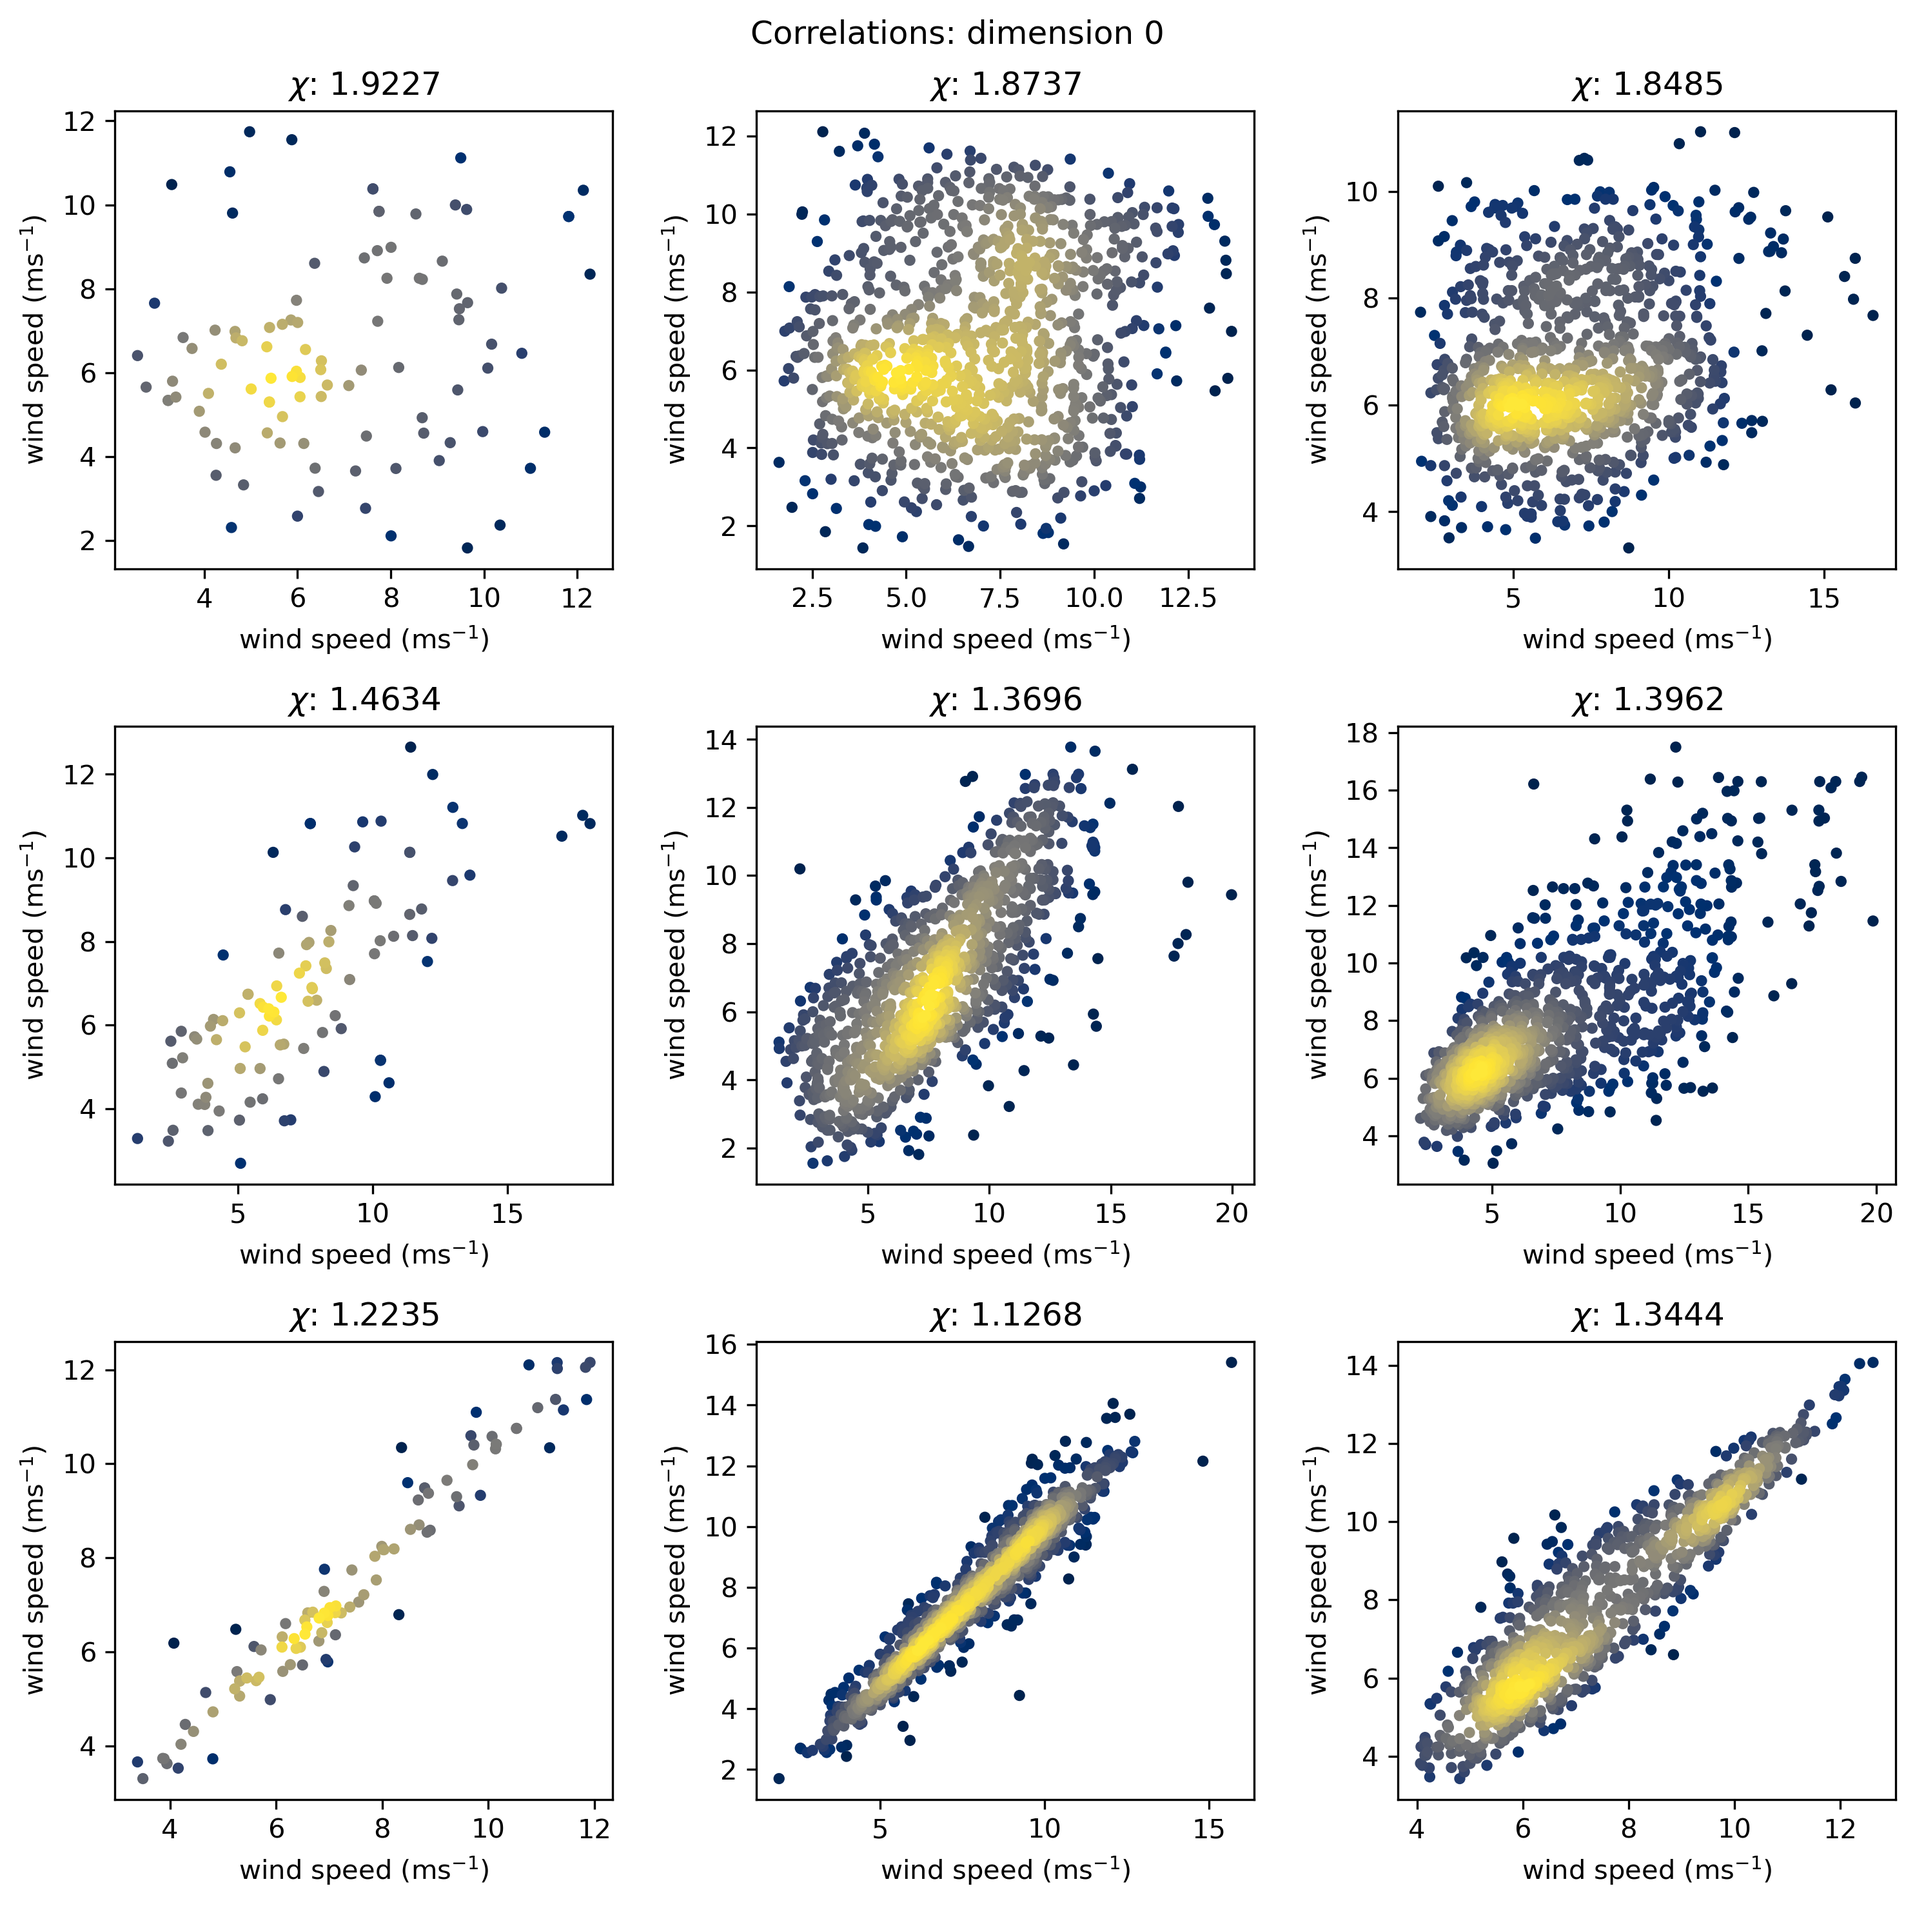
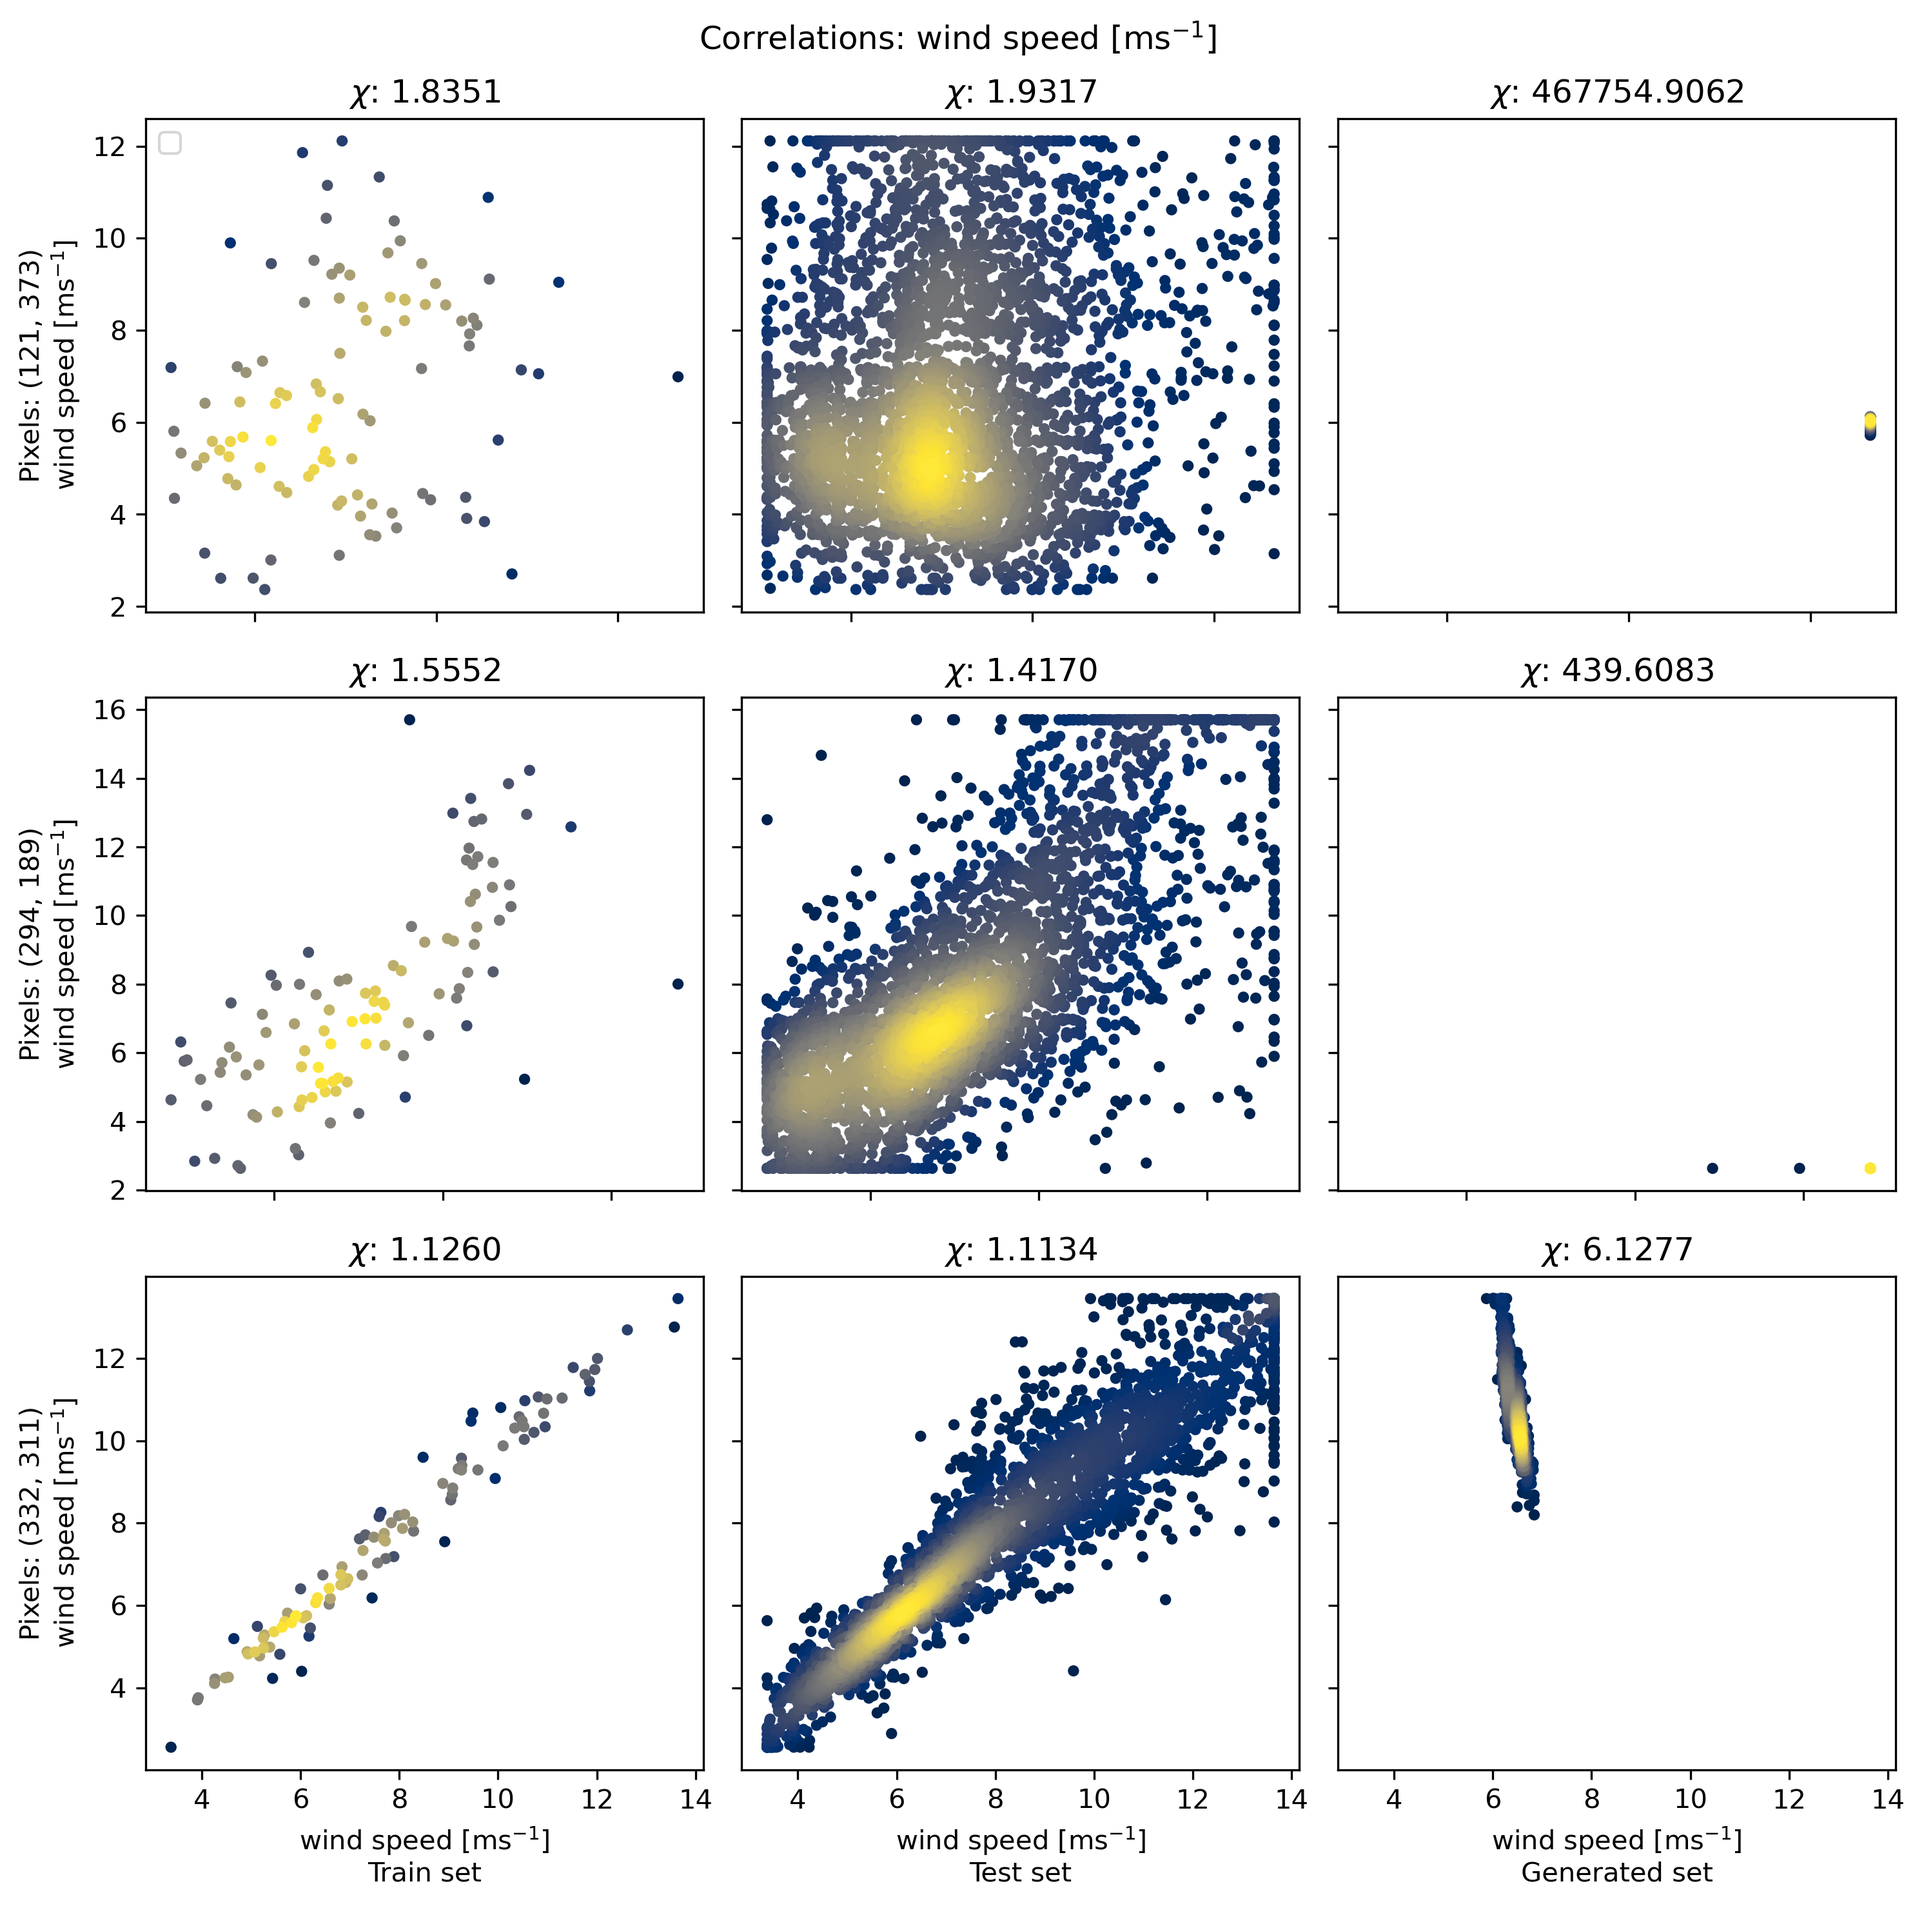
new stuff

diff --git a/evtGAN/tf_utils.py b/evtGAN/tf_utils.py
@@ -87,13 +87,13 @@ def semiparametric_marginal_cdf(x, fit_tail=False, thresh=None):
     if (x.max() - x.min()) == 0.:
         return np.array([0.] * len(x)), 0, 0, 0
     
-    f = ecdf(x)  # ecdf(x).cdf.evaluate(x)
+    f = ecdf(x)
     
     if fit_tail:
         assert thresh is not None, "Threshold must be supplied if fitting tail."
         x_tail = x[x > thresh]
         f_tail = f[x > thresh]
-        x_tail = x_tail.astype(np.float64)  # otherwise f_thresh gets rounded too low
+        x_tail = x_tail.astype(np.float64)  # otherwise f_thresh gets rounded down below f_thresh
         shape, loc, scale = genpareto.fit(x_tail, floc=thresh, method="MLE")
         f_thresh = np.interp(thresh, sorted(x), sorted(f)) #ecdf(x).cdf.evaluate(thresh)
         f_tail = 1 - (1 - f_thresh) * (np.maximum(0, (1 - shape * (x_tail - thresh) / scale)) ** (1 / shape))  # second set of parenthesis important
@@ -139,9 +139,10 @@ def inv_probability_integral_transform(marginals, x, y, params=None, thresh=None
     """Transform uniform marginals to original distributions, by inverse-interpolating ecdf."""
     assert marginals.ndim == 4, "Function takes rank 4 arrays"
     n, h, w, c = marginals.shape
-    assert x.shape[1:] == (h, w, c), "Marginals and x have different dimensions."
-    assert y.shape[1:] == (h, w, c), "Marginals and y have different dimensions."
-    assert x.shape[0] == y.shape[0], "x and y have different dimensions."
+
+    assert x.shape[1:] == (h, w, c), f"Marginals and x have different dimensions: {x.shape[1:]} != {h, w, c}."
+    assert y.shape[1:] == (h, w, c), f"Marginals and y have different dimensions: {y.shape[1:]} != {h, w, c}."
+    assert x.shape[0] == tf.shape(y)[0], f"x and y have different dimensions: {x.shape[0]} != {y.shape[0]}."
     
     marginals = marginals.reshape(n, h * w, c)
     x = x.reshape(len(x), h * w, c)
@@ -204,14 +205,6 @@ def upper_ppf(marginals, u_x, thresh, params):
     return x
 
 
-# def gev_ppf(q, params):
-#     """To replace nans with zeros."""
-#     if sum(params) > 0:
-#         return genpareto.ppf(q, *params)
-#     else:
-#         return 0.
-
-
 def get_ecs(marginals, sample_inds):
     data = tf.cast(marginals, dtype=tf.float32)
     n, h, w = tf.shape(data)[:3]
@@ -226,13 +219,11 @@ def get_ecs(marginals, sample_inds):
 
 
 def tf_exp(uniform):
-    # if (uniform == 1).any(): uniform *= 0.9999  # need a TensorFlow analogue
     exp_distributed = -tf.math.log(1 - uniform)
     return exp_distributed
 
 
 def tf_inv_frechet(uniform):
-    # if (uniform == 1).any(): uniform *= 0.9999  # need a TensorFlow analogue
     exp_distributed = -tf.math.log(uniform)
     return exp_distributed
 
@@ -271,6 +262,22 @@ def gaussian_blur(img, kernel_size=11, sigma=5):
                                   padding='SAME', data_format='NHWC')
 
 
+def interpolate_thresholds(thresholds, x, y):
+    n, h, w, c = x.shape
+    
+    thresholds = thresholds.reshape(h * w, c)
+    x = x.reshape(n, h * w, c)
+    y = y.reshape(n, h * w, c)
+    f_thresholds = np.empty([h * w, c])
+    
+    for i in range(c):
+        for j in range(h * w):
+            f_thresholds[j, i] = np.interp(thresholds[j, i], x[:, j, i], y[:, j, i])
+                           
+    f_thresholds = f_thresholds.reshape(h, w, c)
+    return f_thresholds
+
+
 ########################################################################################################
 def load_data(datadir, imsize=(18, 22), conditions='all', dim=None):
     """Load wind image data to correct size."""
@@ -289,28 +296,21 @@ def load_data(datadir, imsize=(18, 22), conditions='all', dim=None):
     return data.numpy(), cyclone_flag
 
 
-def load_marginals_and_quantiles(datadir, train_size=200, datas=['wind_data', 'wave_data', 'precip_data'], paddings=tf.constant([[0,0], [1,1], [1,1], [0,0]])):
+def load_training_data(datadir, train_size=200, datas=['wind_data', 'wave_data', 'precip_data'], paddings=tf.constant([[0,0], [1,1], [1,1], [0,0]])):
     marginals = []
-    quantiles = []
     images = []
     params = []
     thresholds = []
-    threshold_ecdfs = []
     for data in datas:
         marginals.append(np.load(os.path.join(datadir, data, 'train', 'marginals.npy'))[..., 0])
-        quantiles.append(np.load(os.path.join(datadir, data, 'train', 'quantiles.npy')))
         params.append(np.load(os.path.join(datadir, data, 'train', 'params.npy')))
         images.append(np.load(os.path.join(datadir, data, 'train', 'images.npy'))[..., 0])
         thresholds.append(np.load(os.path.join(datadir, data, 'train', 'thresholds.npy')))
-        threshold_ecdfs.append(np.load(os.path.join(datadir, data, 'train', 'threshold_ecdfs.npy')))
-
 
     marginals = np.stack(marginals, axis=-1)
-    quantiles = np.stack(quantiles, axis=-1)
     params = np.stack(params, axis=-1)
     images = np.stack(images, axis=-1)
     thresholds = np.stack(thresholds, axis=-1)
-    threshold_ecdfs = np.stack(threshold_ecdfs, axis=-1)
 
     # paddings
     marginals = tf.pad(marginals, paddings)
@@ -322,5 +322,25 @@ def load_marginals_and_quantiles(datadir, train_size=200, datas=['wind_data', 'w
 
     marginals_train = np.take(marginals, train_inds, axis=0)
     marginals_test = np.delete(marginals, train_inds, axis=0)
-    return marginals_train, marginals_test, quantiles, params, images, thresholds, threshold_ecdfs
+    images = np.take(images, train_inds, axis=0)
+    return marginals_train, marginals_test, params, images, thresholds
 
+
+
+def load_test_data(datadir, datas=['wind_data', 'wave_data', 'precip_data'], paddings=tf.constant([[0,0], [1,1], [1,1], [0,0]])):
+    marginals = []
+    images = []
+    params = []
+
+    for data in datas:
+        marginals.append(np.load(os.path.join(datadir, data, 'test', 'marginals.npy'))[..., 0])
+        params.append(np.load(os.path.join(datadir, data, 'train', 'params.npy')))
+        images.append(np.load(os.path.join(datadir, data, 'test', 'images.npy'))[..., 0])
+
+    marginals = np.stack(marginals, axis=-1)
+    params = np.stack(params, axis=-1)
+    images = np.stack(images, axis=-1)
+
+    # paddings
+    marginals = tf.pad(marginals, paddings)
+    return marginals, images, params

diff --git a/evtGAN/viz_utils.py b/evtGAN/viz_utils.py
@@ -83,8 +83,8 @@ def scatter_density(x, y, ax, title='', cmap='cividis'):
     return ax
 
 
-def compare_ecs_plot(train_marginals, test_marginals, fake_marginals, quantiles, params=None,
-                     thresh=None, channel=0, u_x=None, cmap='cividis'):
+def compare_ecs_plot(train_marginals, test_marginals, fake_marginals, x, y, params=None,
+                     thresh=None, channel=0, cmap='cividis', inverse_transform=True):
     if channel == 0:
         corrs = {'low': (121, 373), 'medium': (294, 189), 'high': (332, 311)}
     elif channel == 1:
@@ -93,13 +93,20 @@ def compare_ecs_plot(train_marginals, test_marginals, fake_marginals, quantiles,
         corrs = {'low': (121, 373), 'medium': (294, 189), 'high': (332, 311)}
 
     fig, axs = plt.subplots(3, 3, figsize=(10, 10), layout='tight')
-    train_quantiles = transform_to_quantiles(train_marginals, quantiles, params, thresh)
-    test_quantiles = transform_to_quantiles(test_marginals, quantiles, params, thresh)
-    fake_quantiles = transform_to_quantiles(fake_marginals, quantiles, params, thresh)
 
-    if u_x is not None:
-        h, w, c = u_x.shape
-        u_x = u_x.reshape(h * w, c)
+    if inverse_transform:
+        train_quantiles = inv_probability_integral_transform(train_marginals, x, y, params, thresh)
+        test_quantiles = inv_probability_integral_transform(test_marginals, x, y, params, thresh)
+        fake_quantiles = inv_probability_integral_transform(fake_marginals, x, y, params, thresh)
+    else:
+        train_quantiles = train_marginals
+        test_quantiles = test_marginals
+        fake_quantiles = fake_marginals
+        thresh = interpolate_thresholds(thresh, x, y)
+
+    if thresh is not None:
+        h, w, c = thresh.shape
+        thresh = thresh.reshape(h * w, c)
 
     for i, sample_pixels in enumerate([*corrs.values()]):
         ax = axs[i, :]
@@ -113,26 +120,32 @@ def compare_ecs_plot(train_marginals, test_marginals, fake_marginals, quantiles,
         ax[1].set_title(f'$\chi$: {ec:.4f}')
         ec = get_ecs(fake_marginals[..., channel], sample_pixels)[0]
         ax[2].set_title(f'$\chi$: {ec:.4f}')
+        ax[0].set_ylabel(f'Pixels: {sample_pixels[0], sample_pixels[1]}\n{channel_labels[channel]}')
 
-        if u_x is not None:
-            u = (u_x[sample_pixels[0], channel], u_x[sample_pixels[1], channel])
+        if thresh is not None:
+            u = (thresh[sample_pixels[0], channel], thresh[sample_pixels[1], channel])
 
             for a in ax:
-                a.axhline(u[0], linestyle='dashed', color='k')
+                a.axhline(u[0], linestyle='dashed', color='k', label='Threshold')
                 a.axvline(u[1], linestyle='dashed', color='k')
 
         xlim = ax[0].get_xlim()
         ylim = ax[0].get_ylim()
+
         for a in ax:
             a.set_xlim(xlim)
             a.set_ylim(ylim)
 
+    axs[2, 0].set_xlabel(f'{channel_labels[channel]}\nTrain set')
+    axs[2, 1].set_xlabel(f'{channel_labels[channel]}\nTest set')
+    axs[2, 2].set_xlabel(f'{channel_labels[channel]}\nGenerated set')
+
+    axs[0, 0].legend(loc='upper left')
+
     for ax in axs.ravel():
-        ax.set_xlabel(channel_labels[channel])
-        ax.set_ylabel(channel_labels[channel])
         ax.label_outer()
             
-    fig.suptitle(f'Correlations: dimension {channel}')
+    fig.suptitle(f'Correlations: {channel_labels[channel]}')
     return fig
 
 

diff --git a/scripts/train_dcgan.py b/scripts/train_dcgan.py
@@ -46,8 +46,9 @@ def save_config(dir):
 
 def main(config):
     # load data
-    train_marginals, test_marginals, quantiles, *_ = tf_utils.load_marginals_and_quantiles(datadir, config.train_size, paddings=paddings)
-    
+    train_marginals, _, params, images, thresholds = tf_utils.load_training_data(datadir, config.train_size, paddings=paddings)
+    test_marginals, *_ = tf_utils.load_test_data(datadir)
+
     train = tf.data.Dataset.from_tensor_slices(train_marginals).batch(config.batch_size)
     test = tf.data.Dataset.from_tensor_slices(test_marginals).batch(config.batch_size)
 
@@ -79,14 +80,13 @@ def main(config):
     log_image_to_wandb(fig, f'generated_marginals', imdir)
 
     # get rough ecs without the tail-fitting
-    fig = viz_utils.compare_ecs_plot(train_marginals, test_marginals, fake_marginals, quantiles, channel=0)
+    fig = viz_utils.compare_ecs_plot(train_marginals, test_marginals, fake_marginals, images, train_marginals, channel=0)
     log_image_to_wandb(fig, 'correlations_u10', imdir)
 
-    fig = viz_utils.compare_ecs_plot(train_marginals, test_marginals, fake_marginals, quantiles, channel=0)
+    fig = viz_utils.compare_ecs_plot(train_marginals, test_marginals, fake_marginals, images, train_marginals, channel=0)
     log_image_to_wandb(fig, 'correlations_v10', imdir)
 
-    fig = viz_utils.compare_channels_plot(train_marginals, test_marginals, fake_marginals)
-    log_image_to_wandb(fig, 'correlations multivariate', imdir)
+    #plt.show()
 
 
 if __name__ == "__main__":
